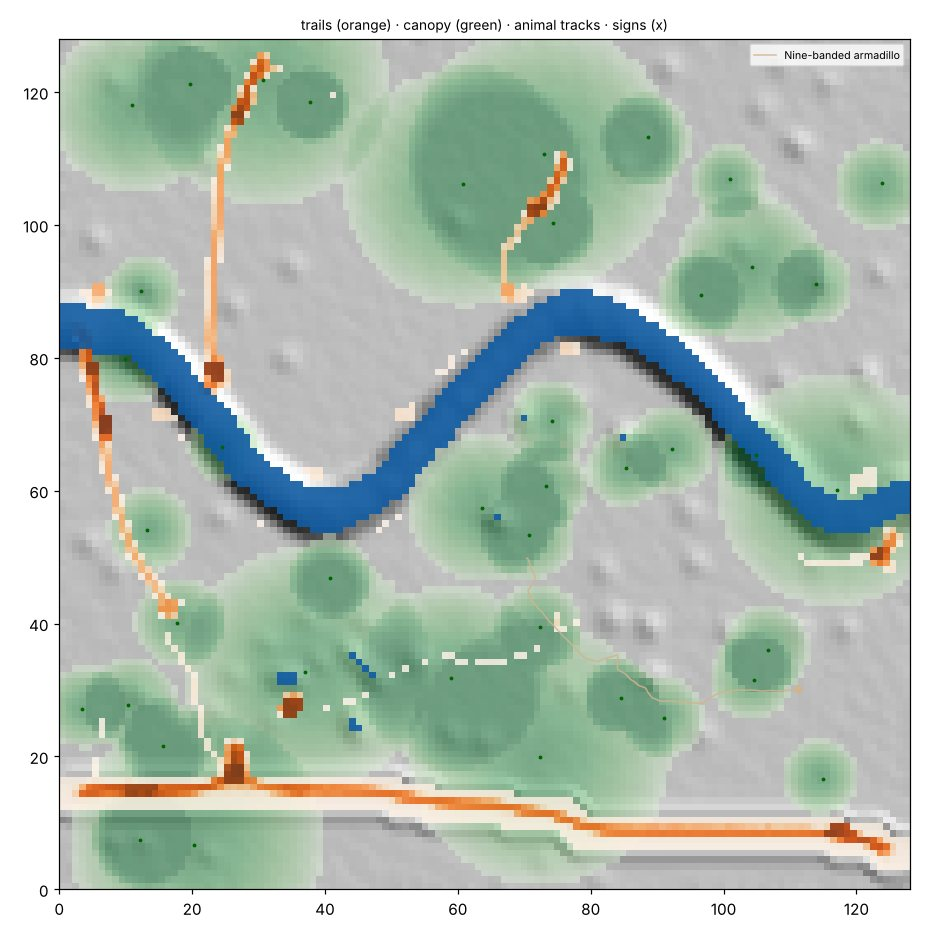
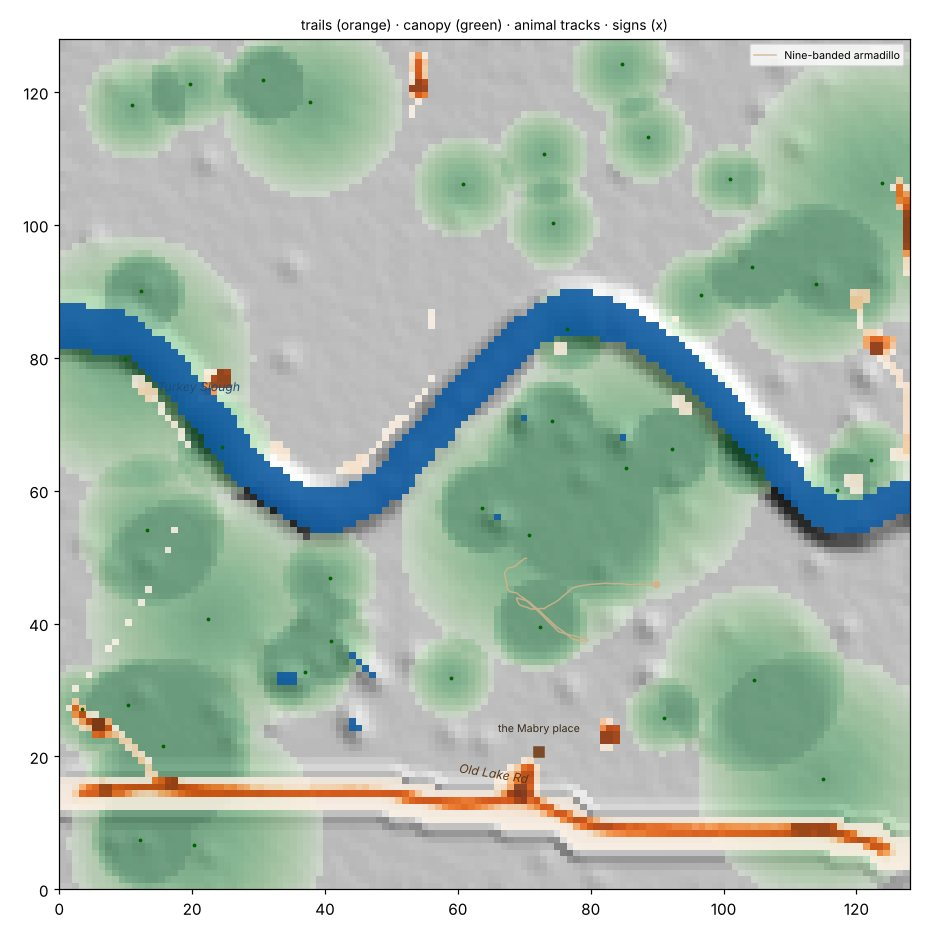
House siting by suitability; invented Southern place names on the map
Techniques (docs/TECHNIQUES.md 19; siting after Fantasy-Map-Generator, MIT):
- Siting: each road point k proposes a plot W/2 + 12 m off the road;
  over a +-6 m footprint
    s_k = -mean(slope)/6 - 6 max(W) - 2 |dz_plot-road - 1 m|
          + 1.5 exp(-((d_creek - 30)/20)^2) + U(0, 0.3)
  outer 12 % excluded; greedy best-first with >= 30 m spacing.
- Names: Southern naming patterns keyed by rng("names", seed, province):
  creek = (nature | family) + regional water word (Branch/Creek/Fork in
  the hills, Bayou/Slough in the Delta); road = family Rd | nature
  landform Rd | church Church Rd | Old landform Rd | creek-word Rd;
  church = (Pleasant Hill | Mount Zion | ...) + (Baptist | Methodist |
  ...); homestead = "the <family> place". Invented, never real places.
- scene.json gains names; map.png labels the road (inside the frame),
  creek and homesteads.
Examples: Monte Sano -> Beaver Mountain Rd, Rocky Creek, the Bankhead
place (cabin moved to a flat site near the creek); bayou -> Turkey
Slough, Old Lake Rd, the Mabry place. Gallery regenerated
(9.9 / 11.1 / 11.9 MB). Tests: names keyed and regional; siting picks the
flat dry frontage (35 tests).

Claude-Session: https://claude.ai/code/session_01W8T2zvuXVw2eBrrYHA5yqx

diff --git a/plandscape/scene/names.py b/plandscape/scene/names.py
@@ -1,0 +1,73 @@
+"""Place names for a scene: the road, the creek, each homestead, the church.
+
+Names are invented, never claimed to be real places. They follow the patterns Southern places are actually
+named by (a family, a landform, a mill or ford, a church's congregation) instead of a syllable Markov chain
+(Fantasy-Map-Generator's approach; its name bases are European/fantasy). Every choice is keyed, so a scene
+always gets the same names. See docs/TECHNIQUES.md §19.
+"""
+
+from __future__ import annotations
+
+from ..rng import rng as make_rng
+
+SURNAMES = ["Abernathy", "Aldridge", "Bankhead", "Blevins", "Boatwright", "Burkhalter", "Caldwell", "Cantrell",
+            "Crutcher", "Dabney", "Dorsey", "Easley", "Fite", "Gentry", "Goforth", "Hargrove", "Hollingsworth",
+            "Hurt", "Jernigan", "Kilgore", "Lackey", "Ledbetter", "Lovelady", "Mabry", "McCrary", "Moody",
+            "Nesbitt", "Oakes", "Pettus", "Pruitt", "Rakestraw", "Renfroe", "Sanders", "Shackelford", "Stallings",
+            "Tidwell", "Tubb", "Vaughn", "Wardlaw", "Whitlow", "Womack", "Yarbrough"]
+
+# landform and water words by province: the same creek is a "Branch" in the hills and a "Slough" in the Delta
+LAND = {
+    "cumberland_plateau": dict(water=["Branch", "Creek", "Fork"], land=["Gap", "Cove", "Bluff", "Hollow", "Mountain"]),
+    "ridge_and_valley": dict(water=["Creek", "Branch", "Run"], land=["Gap", "Ridge", "Valley", "Knob"]),
+    "piedmont": dict(water=["Creek", "Branch", "Shoals"], land=["Mill", "Ford", "Grove", "Hill"]),
+    "coastal_plain": dict(water=["Creek", "Branch", "Swamp"], land=["Landing", "Savanna", "Pond", "Pines"]),
+    "floodplain": dict(water=["Bayou", "Slough", "Bayou"], land=["Bend", "Ferry", "Landing", "Lake"]),
+}
+NATURE = ["Cedar", "Sugar", "Laurel", "Mulberry", "Persimmon", "Turkey", "Panther", "Beaver", "Possum", "Spring",
+          "Sulphur", "Rocky", "Muddy", "Big", "Little", "Cane", "Hickory", "Chestnut", "Poplar", "Dry"]
+CHURCH_NAME = ["Pleasant Hill", "Mount Zion", "New Hope", "Shiloh", "Bethel", "Mount Pisgah", "Antioch", "Ebenezer",
+               "Salem", "Liberty", "Pleasant Grove", "Macedonia"]
+CHURCH_KIND = ["Baptist", "Methodist", "Missionary Baptist", "Primitive Baptist", "A.M.E.", "Church of Christ"]
+
+
+def scene_names(plan, n_houses=0, has_creek=True):
+    r = make_rng("names", plan.seed, plan.province)
+    words = LAND.get(plan.province, LAND["piedmont"])
+    pick = lambda xs: xs[int(r.integers(0, len(xs)))]  # noqa: E731
+    families = list(r.choice(SURNAMES, size=max(n_houses, 1) + 1, replace=False))
+    creek = f"{pick(NATURE + families)} {pick(words['water'])}" if has_creek else None
+    church = f"{pick(CHURCH_NAME)} {pick(CHURCH_KIND)} Church"
+    road_kind = int(r.integers(0, 5))
+    road = [f"{families[-1]} Rd", f"{pick(NATURE)} {pick(words['land'])} Rd",
+            f"{church.split(' Church')[0].rsplit(' ', 1)[0]} Church Rd", f"Old {pick(words['land'])} Rd",
+            f"{creek.split(' ')[0] if creek else pick(NATURE)} {pick(words['water'])} Rd"][road_kind]
+    homes = [f"the {f} place" for f in families[:n_houses]]
+    return dict(road=road, creek=creek, church=church, homesteads=homes)
+
+
+def site_scores(hf, road, nrm, setback, footprint_r=6.0):
+    """Suitability of a house site at each road point (after FMG's settlement score, rewritten for a 1 m tile):
+        s = −mean slope / 6 − 6 · water within the plot − 2 · |height above road − 1 m| + creek bonus
+    where the creek bonus is 1.5 · exp(−((d_creek − 30)/20)²): close enough to fetch water, out of its flood."""
+    import numpy as np
+    from scipy import ndimage
+    slope = hf.layers["slope"]
+    water = hf.layers["water"]
+    d_water = ndimage.distance_transform_edt(water < 0.5) * hf.res
+    sites = road + nrm * setback
+    out = np.empty(len(road))
+    for k, (x, y) in enumerate(sites):
+        gx, gy = hf.to_grid(x, y)
+        i0, i1 = int(max(gy - footprint_r, 0)), int(min(gy + footprint_r + 1, slope.shape[0]))
+        j0, j1 = int(max(gx - footprint_r, 0)), int(min(gx + footprint_r + 1, slope.shape[1]))
+        if i1 <= i0 or j1 <= j0:
+            out[k] = -1e9
+            continue
+        s = -slope[i0:i1, j0:j1].mean() / 6 - 6 * water[i0:i1, j0:j1].max()
+        rise = float(hf.sample(x, y)[0] - hf.sample(*road[k])[0])
+        s -= 2 * abs(rise - 1.0)
+        dw = d_water[int(np.clip(round(gy), 0, slope.shape[0] - 1)), int(np.clip(round(gx), 0, slope.shape[1] - 1))]
+        s += 1.5 * np.exp(-((dw - 30) / 20) ** 2) if water.any() else 0
+        out[k] = s
+    return out

diff --git a/plandscape/scene/compose.py b/plandscape/scene/compose.py
@@ -30,6 +30,7 @@ from ..rng import rng as make_rng
 from ..terrain.heightfield import generate_tile
 from .buildings import clothesline, fence, generate_building, mailbox
 from .groundcover import scatter
+from .names import scene_names, site_scores
 from .roads import ROAD_WIDTH, grade, ribbon, route, smooth
 from .planner import ScenePlan
 
@@ -108,7 +109,19 @@ def compose(plan: ScenePlan, out_dir: str, sim_seconds=180.0, log=print, store: 
         def along(x):
             k = int(np.argmin(np.abs(road[:, 0] - x)))
             return road[k], tan[k] * (1 if tan[k, 0] >= 0 else -1), nrm[k]
-        xs = np.linspace(S * 0.2, S * 0.8, len(plan.buildings))
+        # house sites: best-scoring road frontage, greedily, at least 30 m apart (TECHNIQUES §19)
+        sc = site_scores(hf, road, nrm, ROAD_WIDTH / 2 + 12.0)
+        sc = sc + make_rng("siting", plan.seed).uniform(0, 0.3, len(sc))  # break ties between equal sites
+        sc[(road[:, 0] < S * 0.12) | (road[:, 0] > S * 0.88)] = -1e9
+        xs = []
+        for k in np.argsort(-sc):
+            if len(xs) == len(plan.buildings):
+                break
+            if all(abs(road[k, 0] - x) >= 30 for x in xs):
+                xs.append(float(road[k, 0]))
+        while len(xs) < len(plan.buildings):  # crowded tile: fall back to even spacing
+            xs.append(float(S * (0.2 + 0.6 * len(xs) / max(len(plan.buildings) - 1, 1))))
+        xs = sorted(xs)
         for k, (kind, bx) in enumerate(zip(plan.buildings, xs)):
             bseed = [0, int(make_rng("bpick", plan.seed, k).integers(0, 4))] if library_pool else [plan.seed, k]
             m, meta = store.get_or_build("building", dict(kind=kind, seed=bseed),
@@ -387,7 +400,11 @@ def compose(plan: ScenePlan, out_dir: str, sim_seconds=180.0, log=print, store: 
                  terrain_tris=ter.n_tris, agents=len(agents), signs=len(world.signs),
                  trodden_cells=int((field.G > 0.35).sum()), glb_mb=round(size_mb, 2),
                  seconds=round(time.time() - t0, 1), library=store.stats())
-    scene = dict(plan=asdict(plan), stats=stats, lighting=light, buildings=info,
+    names = scene_names(plan, n_houses=len(info), has_creek=bool(water.any()))
+    for i_, h_ in zip(info, names["homesteads"]):
+        h_ = f"{names['church']}" if i_["kind"] == "church" else h_
+        i_["name"] = h_
+    scene = dict(plan=asdict(plan), stats=stats, lighting=light, buildings=info, names=names,
                  trees=[{k: v for k, v in pl.items() if k != "model"} for pl in placements], signs=world.signs,
                  ground_props=[dict(gp, model=f"{gp['model'][0]}/{gp['model'][1]}") for gp in gprops],
                  credits=sorted({(p_.meta["source"]["url"], p_.meta["source"]["licence"],
@@ -401,5 +418,6 @@ def compose(plan: ScenePlan, out_dir: str, sim_seconds=180.0, log=print, store: 
     log(f"exported {glb} ({size_mb:.1f} MB) in {time.time() - t0:.1f}s")
     return dict(dir=out_dir, glb=glb, stats=stats, hf=hf, field=field, canopy=canopy, agents=agents,
                 world=world, placements=placements, variants=variants, ter=ter, grass=grass,
-                ground_props=gprops, prop_parts=gparts, road=road_mesh, buildings=info,
+                ground_props=gprops, prop_parts=gparts, road=road_mesh, buildings=info, names=names,
+                road_line=road,
                 built=built, water=water_mesh, light=light)

diff --git a/tests/test_textures_models.py b/tests/test_textures_models.py
@@ -298,6 +298,32 @@ class CrownNormals(Base):
         self.assertGreater(np.median((n8 * want).sum(1)), 0.97)
 
 
+class Names(unittest.TestCase):
+    def test_names_keyed_and_regional(self):
+        from plandscape.scene.names import scene_names
+        from plandscape.scene.planner import plan
+        a = scene_names(plan("Monte Sano cove with a dogtrot cabin", seed=3), n_houses=1)
+        b = scene_names(plan("Monte Sano cove with a dogtrot cabin", seed=3), n_houses=1)
+        self.assertEqual(a, b)
+        self.assertTrue(a["road"].endswith("Rd") and a["homesteads"][0].startswith("the "))
+        delta = scene_names(plan("cypress bayou floodplain with a shotgun house", seed=3), n_houses=1)
+        self.assertTrue(any(w in delta["creek"] for w in ("Bayou", "Slough")))
+
+    def test_siting_prefers_flat_dry_frontage(self):
+        from plandscape.scene.names import site_scores
+        from plandscape.terrain.heightfield import generate_tile
+        hf = generate_tile(96, 1.0, "piedmont", 2, creek=False)
+        hf.layers["slope"][:] = 2.0
+        hf.layers["slope"][:, 60:] = 30.0      # steep east half
+        hf.layers["water"][:] = 0.0
+        hf.layers["water"][20:40, 10:25] = 1.0  # a pond on the west frontage
+        road = np.c_[np.arange(5, 90, 1.0), np.full(85, 10.0)]
+        nrm = np.tile([0.0, 1.0], (len(road), 1))
+        s = site_scores(hf, road, nrm, 15.0)
+        best = road[int(np.argmax(s)), 0]
+        self.assertTrue(30 <= best <= 55)  # flat, dry middle stretch
+
+
 class Splat(Base):
     def test_weights_follow_layers(self):
         from plandscape.ground.surface import ground_weights

diff --git a/plandscape/scene/preview.py b/plandscape/scene/preview.py
@@ -119,6 +119,24 @@ def map_view(res, path):
         ax.plot(s["x"], s["y"], "x", ms=4, color="purple")
     ax.set_xlim(0, S)
     ax.set_ylim(0, S)
+    nm = res.get("names") or {}
+    if res.get("road_line") is not None and nm.get("road"):
+        rl = res["road_line"]
+        k = len(rl) // 2
+        d = rl[min(k + 3, len(rl) - 1)] - rl[max(k - 3, 0)]
+        below = rl[k, 1] > 12  # keep the label inside the map when the road hugs the south edge
+        ax.text(rl[k, 0], rl[k, 1] + (-3.5 if below else 3.5), nm["road"], fontsize=8, ha="center",
+                va="top" if below else "bottom", color="#5a3a1a",
+                rotation=float(np.degrees(np.arctan2(d[1], d[0]))), style="italic")
+    wy_, wx_ = np.nonzero(hf.layers["water"] > 0.5)
+    if nm.get("creek") and len(wx_):
+        k = len(wx_) // 2
+        ax.text(wx_[k] * hf.res, wy_[k] * hf.res + 3, nm["creek"], fontsize=8, color="#1f4e79", style="italic",
+                ha="center")
+    for b in res.get("buildings") or []:
+        ax.plot(b["x"], b["y"], "s", ms=6, color="#7a4a2a")
+        if b.get("name"):
+            ax.text(b["x"], b["y"] + 3, b["name"], fontsize=7, ha="center", color="#3a2a1a")
     ax.set_title("trails (orange) · canopy (green) · animal tracks · signs (x)", fontsize=9)
     ax.legend(loc="upper right", fontsize=7)
     fig.tight_layout()

diff --git a/docs/TECHNIQUES.md b/docs/TECHNIQUES.md
@@ -274,3 +274,19 @@ $$\mathbf n = \widehat{k\,\hat{\mathbf r} + (1-k)\,s\,\mathbf n_\text{face}},\qq
 Flowers and Spanish moss keep geometric normals. `Mesh.nrm` carries authored normals through transforms
 ($\mathbf n' = \widehat{R\mathbf n}$), the library (int8) and the GLB; the preview renderer shades authored-normal triangles
 with their mean vertex normal, unflipped.
+
+## 19. House siting and place names (siting after Fantasy-Map-Generator, MIT)
+`plandscape/scene/names.py: site_scores, scene_names`; `plandscape/scene/compose.py`
+
+**Siting.** Every road point $k$ proposes a plot $W_r/2 + 12$ m off the road; within a $\pm 6$ m footprint
+
+$$s_k = -\frac{\overline{\text{slope}}}{6} - 6\max W - 2\,\big|\Delta z_{\text{plot}-\text{road}} - 1\,\text{m}\big| + 1.5\,e^{-\left(\frac{d_\text{creek} - 30}{20}\right)^2} + \mathcal U(0, 0.3)$$
+
+(flat, dry, a metre above the road, near but not in the creek; the noise only breaks ties). Plots in the outer 12 %
+of the tile are excluded; houses take the best scores greedily, at least 30 m apart, then sort west→east.
+
+**Names** are invented by Southern naming patterns rather than a syllable chain, keyed by `rng("names", seed, province)`:
+creek = (nature word | family) + regional water word (Branch / Creek / Fork in the hills, Bayou / Slough in the Delta);
+road = one of *family* Rd, *nature landform* Rd, *church* Church Rd, Old *landform* Rd, *creek word* Rd;
+church = (Pleasant Hill | Mount Zion | New Hope | Shiloh | …) + (Baptist | Methodist | Missionary Baptist | A.M.E. | …);
+homestead = "the *family* place". Names go into `scene.json` and are labelled on `map.png`.

diff --git a/catalog/notes/README.md b/catalog/notes/README.md
@@ -11,7 +11,7 @@ numbers refer to the commit in the harvest report.
 | [ocean](ocean.md) | MIT | water ideas queued |
 | [seblague-erosion](seblague-erosion.md) | MIT | droplet erosion adopted (TECHNIQUES §14) |
 | [worldengine](worldengine.md) | MIT | Holdridge lookup queued for real-place mode |
-| [fantasy-map-generator](fantasy-map-generator.md) | MIT | road routing + angle relax adopted (TECHNIQUES §15); siting, names queued |
+| [fantasy-map-generator](fantasy-map-generator.md) | MIT | road routing (§15), siting and naming patterns (§19) adopted; creek width by flux queued |
 | [wfc](wfc.md) | MIT | low priority |
 | [ez-tree](ez-tree.md) | MIT | chain tubes (§4) and rounded normals + twig-attached cards (§18) adopted; wind by uv.y queued |
 | [mesa](mesa.md) | Apache-2.0 | shuffled activation adopted (TECHNIQUES §16); vectorised neighbours not needed at ~10 agents |

diff --git a/catalog/notes/fantasy-map-generator.md b/catalog/notes/fantasy-map-generator.md
@@ -16,6 +16,8 @@
 `d·(1 + (s/12)²)·(1 + 8W)·(0.5 on existing paths)`, FMG's angle relax (< 135° → ½, < 115° → ⅔), then Chaikin
 instead of Catmull-Rom, cut-and-fill crown 8 cm, ditch 35 cm, 4 m blend, gravel ribbon 4.5 m wide. Bed sits
 12 cm under the ribbon (3 cm let the 1 m terrain poke through).
+Siting (§19): FMG's `hab + flux·250 − (h−50)/5` rewritten for a 1 m tile as slope, water, rise-above-road and a
+creek-distance bonus, greedy with 30 m spacing. Names (§19): Southern patterns, not FMG's Markov syllables.
 **Was queued:** a real road surface — Dijkstra on our grid with cost `d·(1 + slope term)·(0.5 on desire paths)`,
 angle relax, Catmull-Rom, crowned cut-and-fill profile with ditches, gravel ribbon mesh; FMG-style house siting;
 creek width ∝ flux^0.7; Southern name patterns.

diff --git a/CHANGELOG.md b/CHANGELOG.md
@@ -3,6 +3,7 @@
 ## Unreleased
 
 **Added**
+- House siting along the road by a suitability score (flat, dry, a metre above the road, near the creek; after FMG) and invented Southern place names for road, creek, church and homesteads, keyed per scene, in `scene.json` and on `map.png` (TECHNIQUES §19).
 - Rounded crown normals and twig-attached leaf cards (TECHNIQUES §18, after ez-tree): canopies shade as one volume; cards no longer float off the wood. `Mesh.nrm` carries authored normals through transforms, the library and the GLB. tree-0.3.1.
 - Curved grass blades (two segments, quadratic bend, tapering) that are shorter and bent along the path where trampled (TECHNIQUES §17). Scenes 9.7 / 11.1 / 11.4 MB.
 
